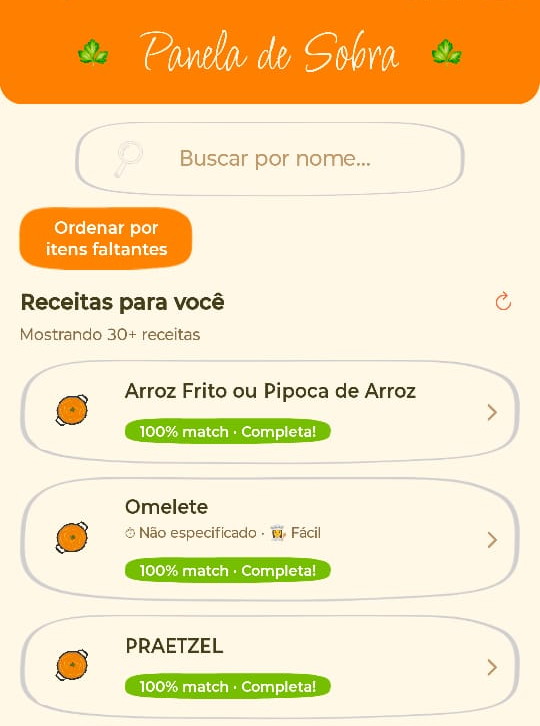
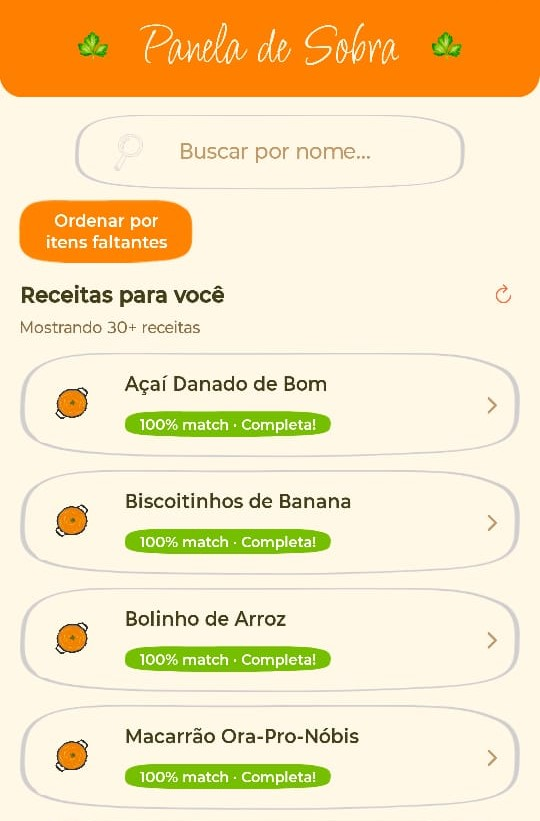
Ajustes no formulário de contato mobile

diff --git a/assets/css/estilo.css b/assets/css/estilo.css
@@ -581,6 +581,85 @@ h2::after {
   margin-top: 16px;
 }
 
+/* Página de contato */
+.pagina-contato {
+  padding: 80px 0; /* Mais espaço no topo e embaixo */
+  max-width: 900px;
+  margin: 0 auto;
+}
+
+.pagina-contato h1 {
+  font-size: 3rem;
+  color: var(--laranja);
+  margin-bottom: 1.5rem; /* Mais respiro após o título */
+}
+
+.contato__introducao {
+  font-size: 1.1rem;
+  margin-bottom: 3rem; /* Mais distância antes do formulário */
+  line-height: 1.7; /* Entrelinha mais arejada */
+}
+
+.form-contato {
+  background: #fff;
+  padding: 120px; /* Mais espaço interno */
+  border-radius: 30% 70% 60% 40% / 40% 50% 50% 60%;
+  transform: rotate(-0.5deg);
+  box-shadow: var(--sombra-suave);
+  margin-bottom: 3rem; /* Mais distância antes da seção alternativa */
+}
+
+.campo {
+  margin-bottom: 2rem; /* Mais espaço entre os campos */
+}
+
+.campo label {
+  display: block;
+  font-weight: 700;
+  margin-bottom: 0.6rem; /* Mais espaço entre label e input */
+  font-size: 1rem;
+  color: var(--texto);
+}
+
+.campo input,
+.campo textarea {
+  width: 100%;
+  padding: 14px 18px; /* Inputs um pouco maiores */
+  border: 2px solid var(--adesivo);
+  border-radius: 30% 70% 50% 50% / 50% 50% 40% 60%;
+  font-family: 'Nunito', sans-serif;
+  font-size: 1rem;
+  background: #fff;
+  outline: none;
+  transition: border-color 0.2s;
+  resize: vertical;
+}
+
+.campo input:focus,
+.campo textarea:focus {
+  border-color: var(--vermelho);
+}
+
+.form-contato .btn {
+  margin-top: 1rem; /* Mais espaço antes do botão */
+  width: 100%;
+  padding: 14px 28px; /* Botão mais convidativo */
+}
+
+.contato__alternativo {
+  text-align: center;
+  margin-top: 2rem;
+  padding: 32px 24px; /* Mais espaço interno */
+  background: var(--adesivo);
+  border-radius: 30% 70% 50% 50% / 50% 50% 40% 60%;
+  transform: rotate(0.5deg);
+}
+
+.contato__alternativo p {
+  margin-bottom: 1.5rem; /* Mais espaço antes do botão de e-mail */
+  font-weight: 600;
+}
+
 /* --- Responsivo (mobile first já foi considerado, mas ajustes finos) --- */
 @media (max-width: 768px) {
   .hero__grid {
@@ -677,19 +756,6 @@ h2::after {
     line-height: 1.7; /* Entrelinha mais arejada */
   }
 
-  .form-contato {
-    background: #fff;
-    padding: 300px; /* Mais espaço interno */
-    border-radius: 30% 70% 60% 40% / 40% 50% 50% 60%;
-    transform: rotate(-0.5deg);
-    box-shadow: var(--sombra-suave);
-    margin-bottom: 3rem; /* Mais distância antes da seção alternativa */
-  }
-
-  .campo {
-    margin-bottom: 2rem; /* Mais espaço entre os campos */
-  }
-
   .campo label {
     display: block;
     font-weight: 700;
@@ -698,29 +764,9 @@ h2::after {
     color: var(--texto);
   }
 
-  .campo input,
-  .campo textarea {
-    width: 100%;
-    padding: 14px 18px; /* Inputs um pouco maiores */
-    border: 2px solid var(--adesivo);
-    border-radius: 30% 70% 50% 50% / 50% 50% 40% 60%;
-    font-family: 'Nunito', sans-serif;
-    font-size: 1rem;
-    background: #fff;
-    outline: none;
-    transition: border-color 0.2s;
-    resize: vertical;
-  }
-
   .campo input:focus,
   .campo textarea:focus {
     border-color: var(--vermelho);
-  }
-
-  .form-contato .btn {
-    margin-top: 1rem; /* Mais espaço antes do botão */
-    width: 100%;
-    padding: 14px 28px; /* Botão mais convidativo */
   }
 
   .contato__alternativo {
@@ -736,14 +782,34 @@ h2::after {
     margin-bottom: 1.5rem; /* Mais espaço antes do botão de e-mail */
     font-weight: 600;
   }
-    /* ============================================
-    HEADLINE COM COR ESPECIAL NO MOBILE
-    ============================================ */
-  @media (max-width: 768px) {
-    .hero__headline {
-      color: #612400;
-      /* Remove o stroke branco que pode brigar com a cor escura */
-      -webkit-text-stroke: 0;
-    }
+
+  .hero__headline {
+    color: #612400;
+    /* Remove o stroke branco que pode brigar com a cor escura */
+    -webkit-text-stroke: 0;
+  }
+
+   .form-contato {
+    padding: 24px 16px;       /* Menos padding lateral para sobrar espaço */
+    transform: none;          /* Remove a rotação */
+    border-radius: 20px;      /* Bordas mais simples e uniformes */
+    margin-bottom: 2rem;
+  }
+
+  .campo {
+    margin-bottom: 1.2rem;    /* Espaçamento entre campos mais enxuto */
+  }
+
+  .campo input,
+  .campo textarea {
+    width: 100%;              /* Garante que ocupem toda a largura */
+    box-sizing: border-box;   /* Inclui borda e padding na largura */
+    font-size: 16px;          /* Tamanho mínimo para evitar zoom no iOS */
+  }
+
+  .form-contato .btn {
+    width: 100%;
+    padding: 14px;
+    font-size: 1rem;
   }
 }

diff --git a/obrigado.html b/obrigado.html
@@ -69,7 +69,7 @@
         <div class="container obrigado__conteudo">
             <div class="obrigado__icone">🍲</div>
             <h1 class="obrigado__headline">Você está dentro! 🎉</h1>
-            <p class="obrigado__texto">Seu e-mail foi anotado no nosso caderninho virtual. Em instantes, chega o <strong>link de convite</strong> prara você participar do teste interno e poder acessar o app antecipadamente!</p>
+            <p class="obrigado__texto">Seu e-mail foi anotado no nosso caderninho virtual. Em até 24 horas, chega o <strong>link de convite</strong> prara você participar do teste interno e poder acessar o app antecipadamente!</p>
             <p class="obrigado__texto">Fique de olho na caixa de entrada (e na aba de promoções, às vezes ela se esconde).</p>
             
             <div class="obrigado__acoes">
@@ -79,7 +79,7 @@
                 -->
             </div>
             
-            <p class="obrigado__ps">Quer adiantar o papo? Responda o e-mail que vai chegar contando qual ingrediente você sempre tem em casa e nunca sabe como usar. Vou tentar incluir no app!</p>
+            <p class="obrigado__ps">Se quiser jpa ajudar no aprimoramento do app, responda o e-mail-convite que vai chegar contando qual ingrediente você sempre tem em casa e nunca sabe como usar. Vou tentar incluir na nossa panela!</p>
         </div>
     </main>
 